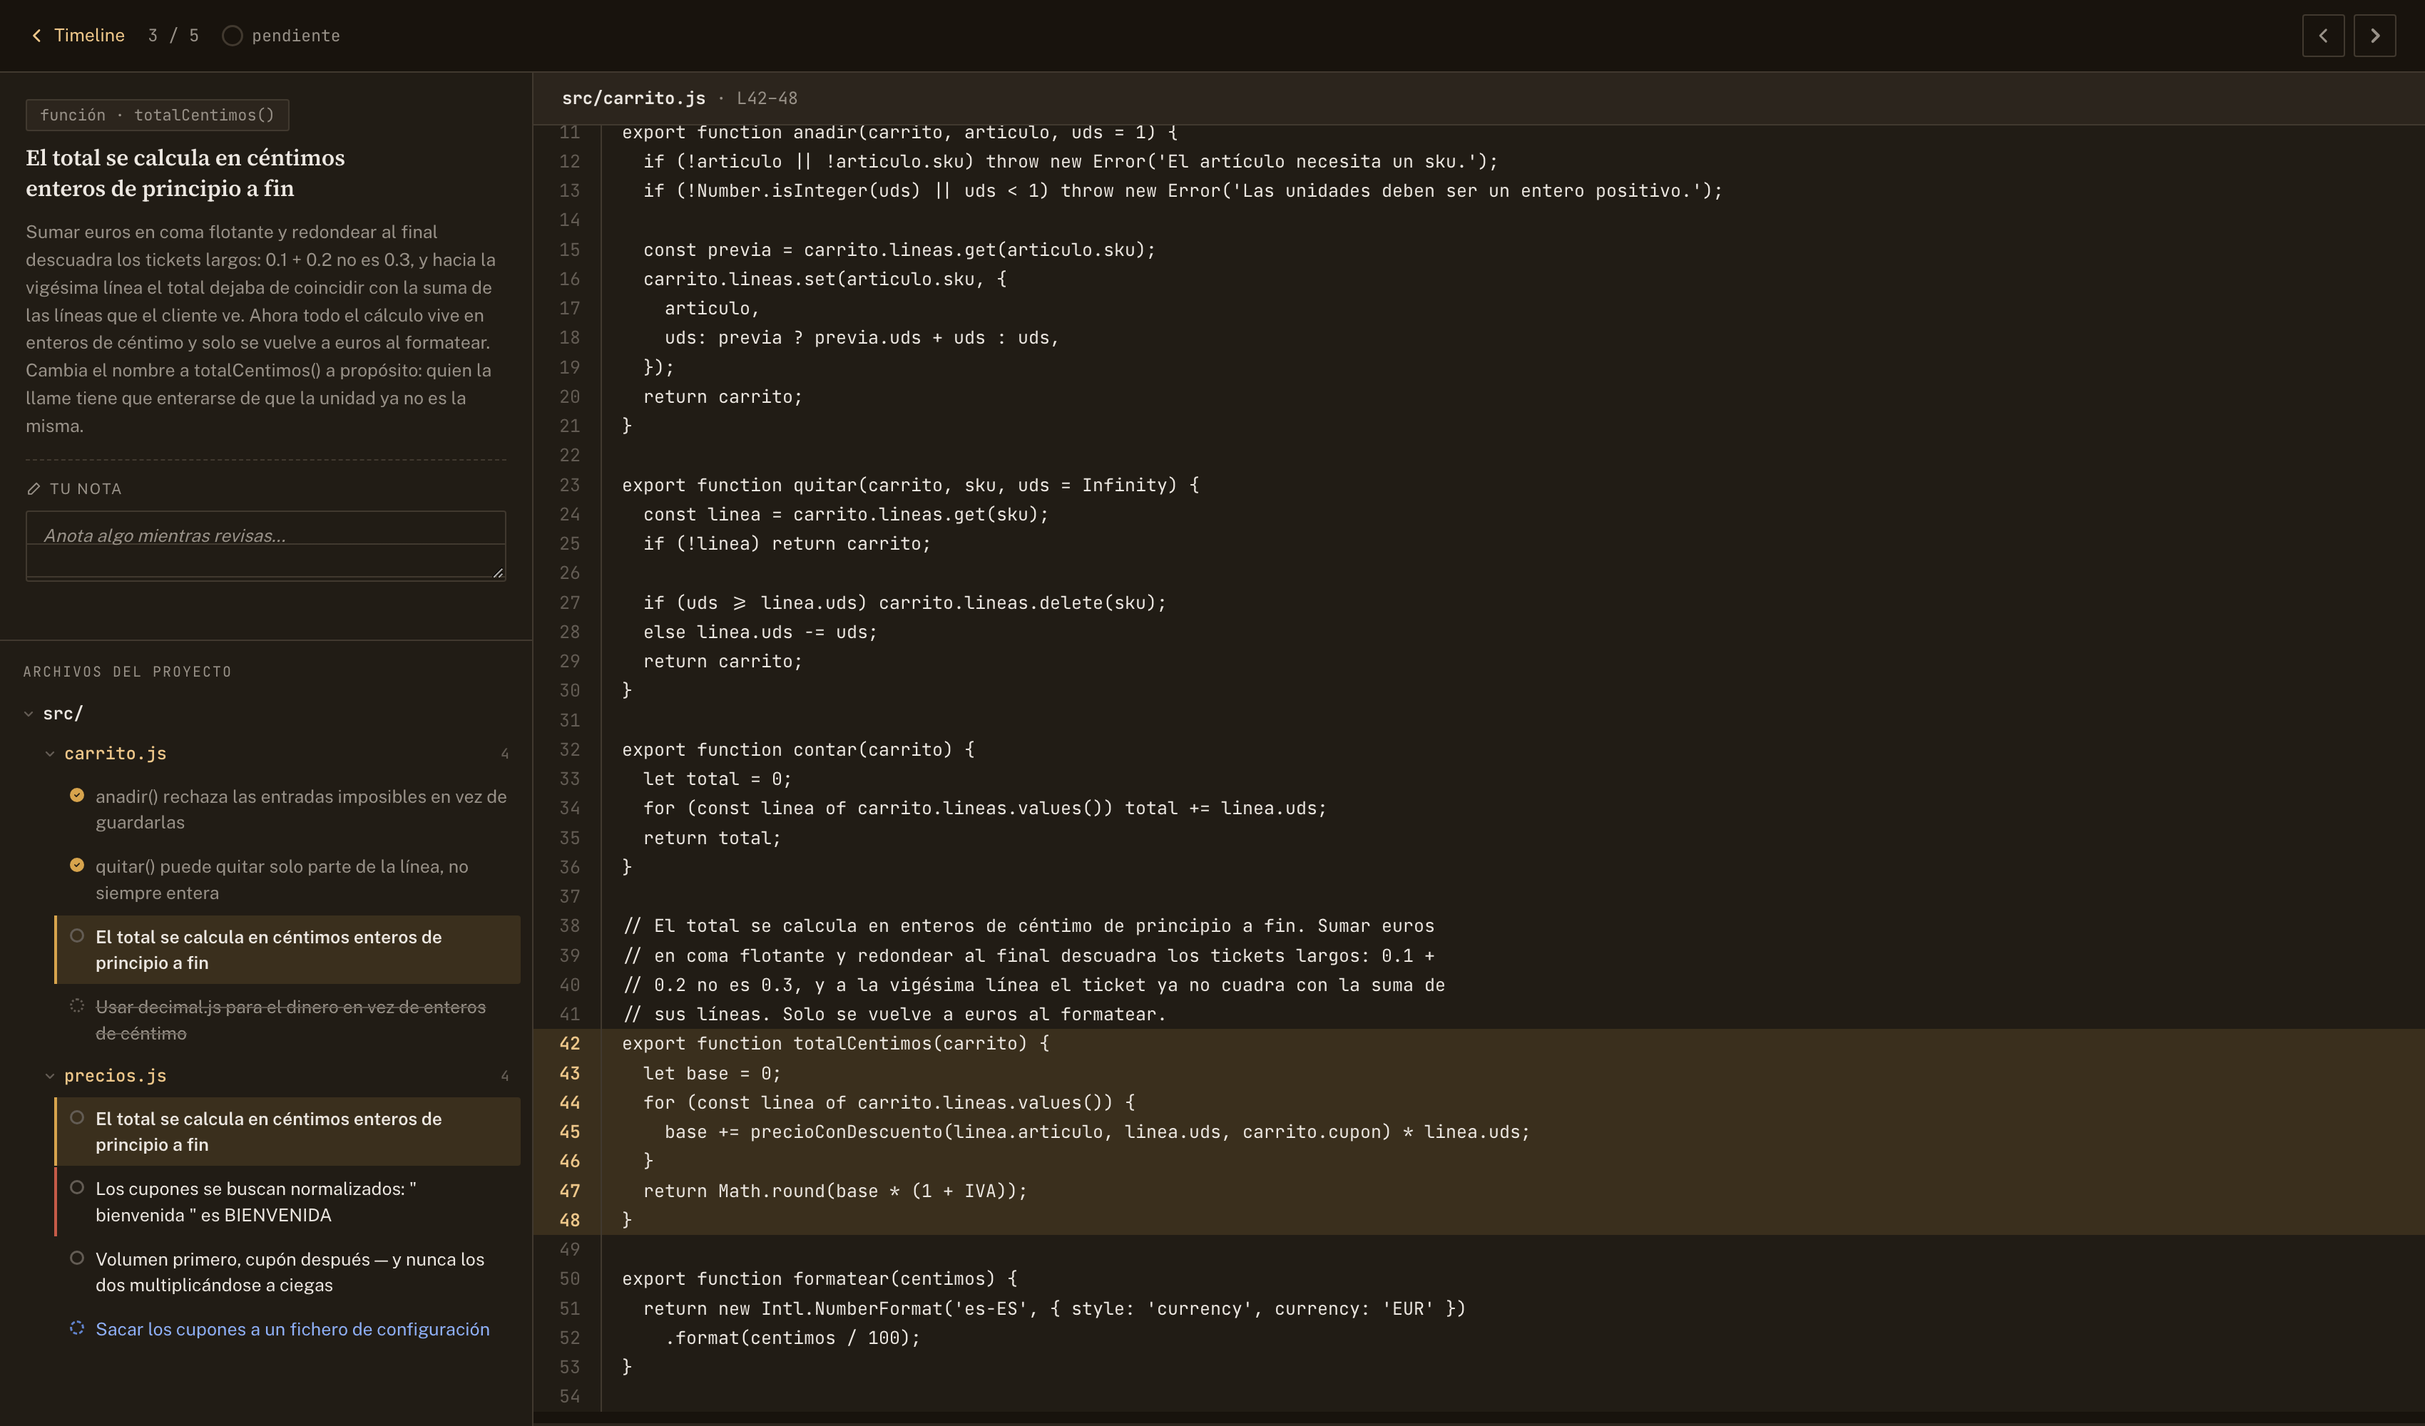
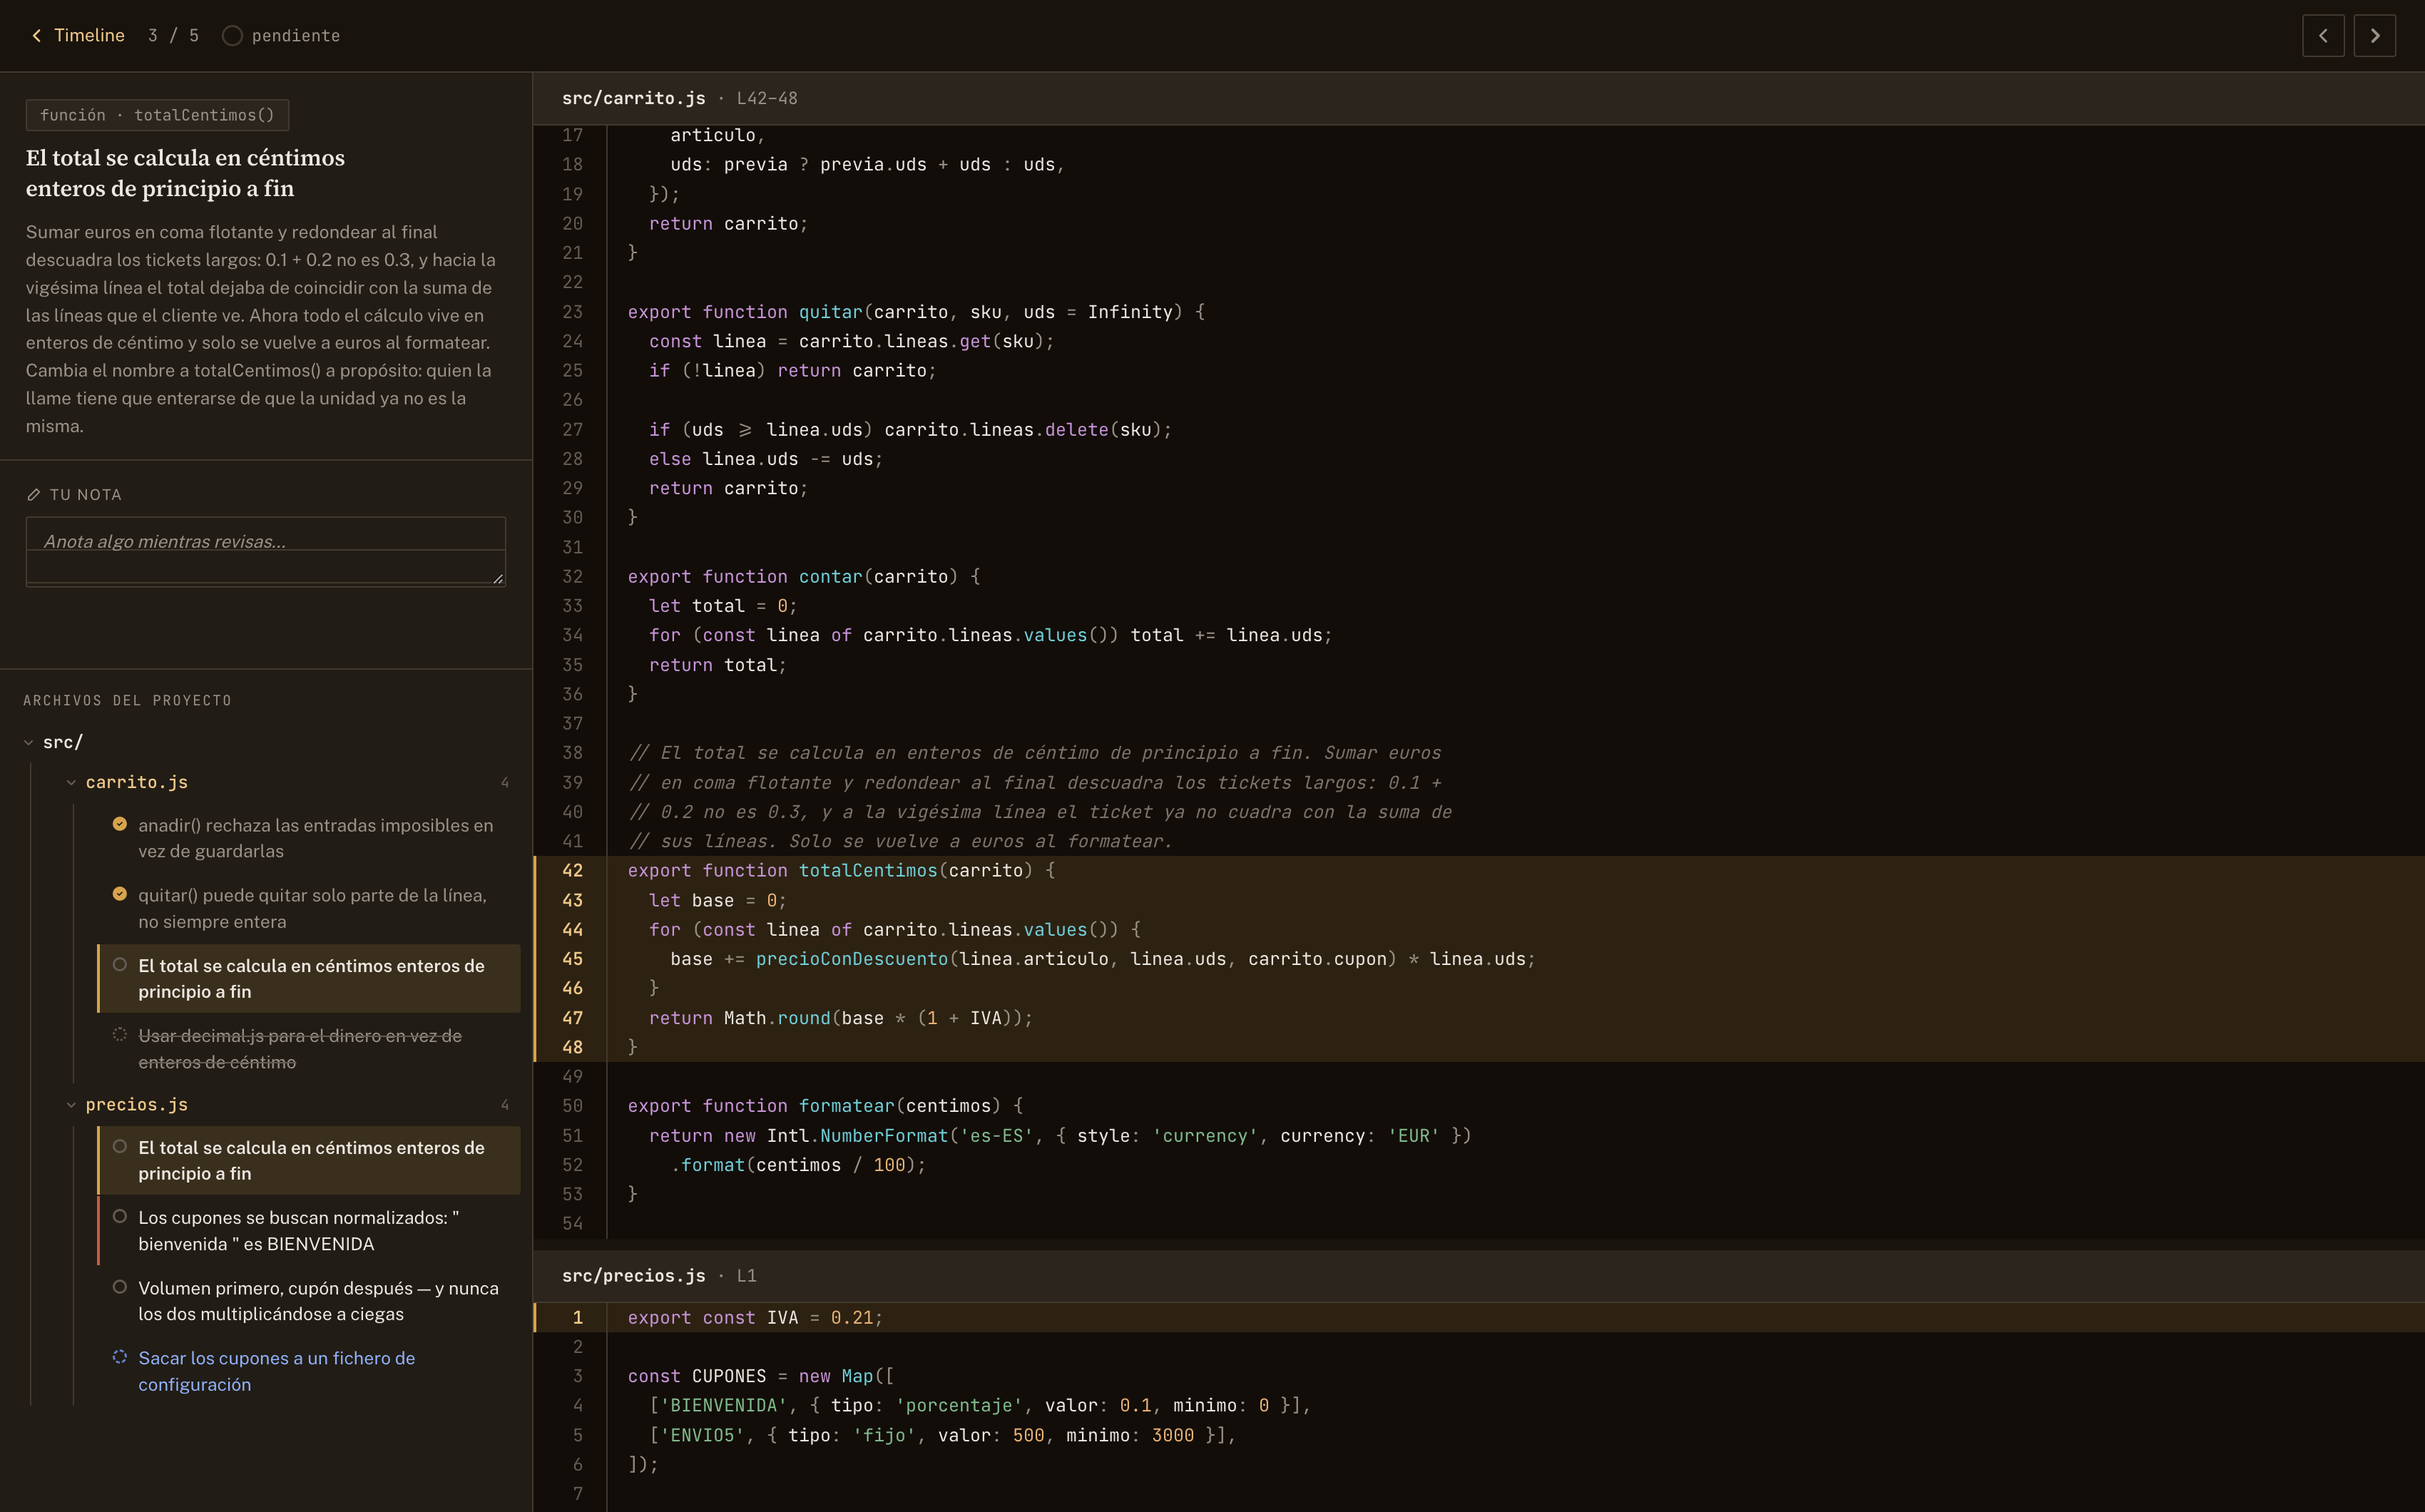
Resaltar el código y rehacer la lectura de la pantalla completa
Hasta ahora todo el código salía en un color plano. En una herramienta
cuyo único trabajo es que leas diffs, eso deja la mitad del significado
sin usar.

lib/highlight.mjs es un tokenizador de una pasada, sin dependencias:
comentarios (de línea y de bloque, con el token que toque por lenguaje),
cadenas respetando el escape, números, palabras clave y llamadas. Conoce
JavaScript, TypeScript, Python, SQL, CSS y JSON, y tiene una regla que
lo mantiene honesto: cuando no conoce el lenguaje NO se inventa palabras
clave — sigue marcando cadenas, números y comentarios, que son casi
universales, y deja el resto en el color del texto. Las claves de SQL y
CSS se comparan sin distinguir mayúsculas; las de JS y Python no, porque
ahí "If" no es "if".

Los hues se eligen para no pisar a los que ya tenían dueño: ámbar del
acento, 32 y 155 del antes/después, 265 de las propuestas. En impresión
se fijan versiones oscuras: los tonos claros del tema oscuro desaparecen
en papel.

Y la vista a pantalla completa, que era la más difícil de leer:

- El panel de código estrena fondo propio (--code-bg), un punto más
  oscuro y frío, para separar "esto es código" de "esto es interfaz".
- El rango del cambio lleva una barra de acento a la izquierda: con solo
  el fondo había que recorrer los números para ver dónde empieza y acaba.
- El árbol gana guías de indentación — a tres niveles el sangrado a pelo
  dejaba de leerse como jerarquía — y la nota se separa en su propio
[…]

diff --git a/README.md b/README.md
@@ -252,12 +252,20 @@ repositorio privado tuyo.
 | --- | --- |
 | `lib/store.mjs` | Persistencia. Ficheros JSON, sin base de datos |
 | `lib/render.mjs` | Genera el HTML: índice, timeline, vista completa y el CSS de impresión |
+| `lib/highlight.mjs` | Resaltado de sintaxis, sin dependencias |
 | `lib/markdown.mjs` | El export a Markdown |
 | `lib/httpserver.mjs` | Servidor HTTP nativo + API de "revisado" y notas |
 | `lib/repofile.mjs` | Lee el archivo del repo: el del disco, y si ya no está, el del commit |
 | `server.mjs` | Servidor MCP (stdio) |
 | `bin/cli.mjs` | El CLI |
 | `examples/demo-repo/` | El proyecto de ejemplo de `npm run demo` |
+
+El código va resaltado, en los paneles del diff y en el archivo completo. El
+resaltador (`lib/highlight.mjs`) es un tokenizador de una pasada sin
+dependencias, y tiene una regla que lo mantiene honesto: cuando no conoce el
+lenguaje **no se inventa palabras clave** — sigue marcando cadenas, números y
+comentarios, que son casi universales, y deja el resto en el color del texto.
+Conoce JavaScript, TypeScript, Python, SQL, CSS y JSON.
 
 La vista a pantalla completa lee siempre el **estado actual** del archivo en tu
 disco, no una copia congelada: es lo que abrirías hoy en el editor. Solo si el
